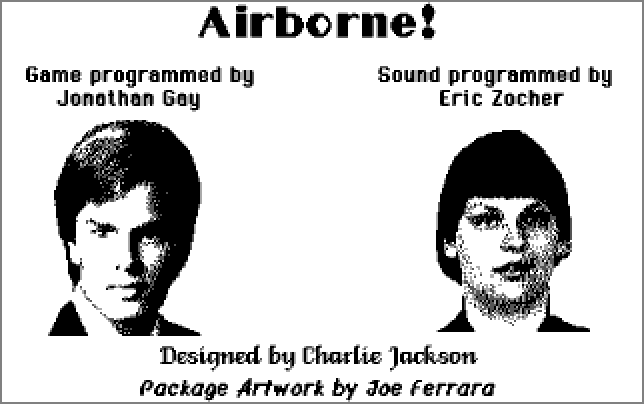
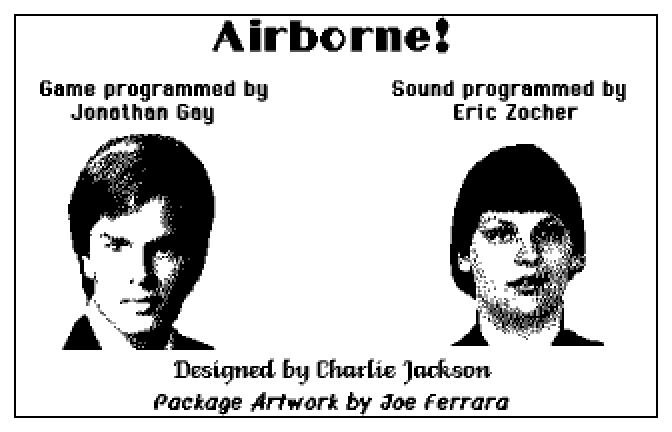
docs: clearer Airborne screenshot frames, drop Roff from language stats
- Screenshots get a black line and a transparent margin instead of a grey border
- .gitattributes: the JR Quest .pic room pictures are game data, not Roff
- CLAUDE.md: the first line no longer says "two games"

Changed region(s): [[0.0, 0.0, 1.0, 1.0], [0.2795, 0.3564, 0.3416, 0.5347]]

diff --git a/apps/airborne/README.md b/apps/airborne/README.md
@@ -13,11 +13,11 @@ those files on this laptop.
 <table>
   <tr>
     <td align="center" width="50%">
-      <img src="screenshots/title.png" alt="Title" width="400"><br>
+      <img src="screenshots/title.png" alt="Title" width="420"><br>
       <em>The title screen and high scores</em>
     </td>
     <td align="center" width="50%">
-      <img src="screenshots/level10.png" alt="Level 10" width="400"><br>
+      <img src="screenshots/level10.png" alt="Level 10" width="420"><br>
       <em>Level 10: helicopters and paratroopers</em>
     </td>
   </tr>
@@ -114,41 +114,41 @@ DOSBox (`lib/emu.sh`, `/KEYS:PPEPIPIIIIIPXX` for the menus, `/DEMO` with
 <table>
   <tr>
     <td align="center" width="50%">
-      <img src="screenshots/presents.png" alt="Presents" width="400"><br>
+      <img src="screenshots/presents.png" alt="Presents" width="420"><br>
       <em>Silicon Beach Software presents</em>
     </td>
     <td align="center" width="50%">
-      <img src="screenshots/box.png" alt="Box picture" width="400"><br>
+      <img src="screenshots/box.png" alt="Box picture" width="420"><br>
       <em>The box picture, while the startup song plays</em>
     </td>
   </tr>
   <tr>
     <td align="center" width="50%">
-      <img src="screenshots/title.png" alt="Title" width="400"><br>
+      <img src="screenshots/title.png" alt="Title" width="420"><br>
       <em>The title screen, menu and high scores</em>
     </td>
     <td align="center" width="50%">
-      <img src="screenshots/credits.png" alt="Credits" width="400"><br>
+      <img src="screenshots/credits.png" alt="Credits" width="420"><br>
       <em>The original's credits page</em>
     </td>
   </tr>
   <tr>
     <td align="center" width="50%">
-      <img src="screenshots/pcjr-keys.png" alt="PCjr keys" width="400"><br>
+      <img src="screenshots/pcjr-keys.png" alt="PCjr keys" width="420"><br>
       <em>The PCjr keys, the last instructions page</em>
     </td>
     <td align="center" width="50%">
-      <img src="screenshots/level1.png" alt="Level 1" width="400"><br>
+      <img src="screenshots/level1.png" alt="Level 1" width="420"><br>
       <em>Level 1: the first helicopters</em>
     </td>
   </tr>
   <tr>
     <td align="center" width="50%">
-      <img src="screenshots/level5.png" alt="Level 5" width="400"><br>
+      <img src="screenshots/level5.png" alt="Level 5" width="420"><br>
       <em>Level 5: paratroopers coming down</em>
     </td>
     <td align="center" width="50%">
-      <img src="screenshots/level10.png" alt="Level 10" width="400"><br>
+      <img src="screenshots/level10.png" alt="Level 10" width="420"><br>
       <em>Level 10: troopers landing by the cactus</em>
     </td>
   </tr>

diff --git a/docs/JOURNAL.md b/docs/JOURNAL.md
@@ -1134,3 +1134,5 @@ Sound. The song plays as real samples through SAY's player (`splayer.asm` includ
 
 
 **READMEs: captions and a diagram (2026-10-27).** Steve, looking at the repo on GitHub: the Airborne screenshots bled together, and the paragraph about the link wanted a diagram. GitHub drops CSS in READMEs, so the screenshots got a 2-pixel grey border baked into the PNGs and went into an HTML table with an italic caption under each. The ASCII sketch at the top of the main README became two Mermaid diagrams (GitHub renders them): the parts (PCjr, WiFi modem, Go server, Claude, compiler, emulator) and the round trip of asking for a program. Not checked in a Mermaid renderer here (npx was not allowed), so the first look is on GitHub.
+
+**Frames again, and "Roff" (2026-10-27).** The grey border was grey on grey on GitHub. Each screenshot now has a 2-pixel black line and a 14-pixel transparent margin, so the page color shows between them in light and dark mode. Steve asked what the "Roff" in GitHub's language bar was: the 19 JR Quest room pictures end in `.pic`, which GitHub's detector reads as the Unix typesetter's picture language (116,686 bytes, exactly the Roff figure). `.gitattributes` now leaves them out. CLAUDE.md's first line still said "two games".

diff --git a/CLAUDE.md b/CLAUDE.md
@@ -1,6 +1,6 @@
 # CodeJr
 
-Claude Code for a real IBM PCjr: a Go server on this laptop, a native DOS client (and an MS-Kermit fallback) on the PCjr, a graphics library and two games.
+Claude Code for a real IBM PCjr: a Go server on this laptop, a native DOS client (and an MS-Kermit fallback) on the PCjr, a graphics library, and the games and demos written with it.
 
 **Read `docs/HANDOFF.md` before doing anything.** It has the current state, what is proven on the real machine and what isn't, the facts that took hours to find, and the mistakes not to repeat. `docs/JOURNAL.md` is the full history; append to it as you work (Steve wants the whole story, wrong turns included).
 
